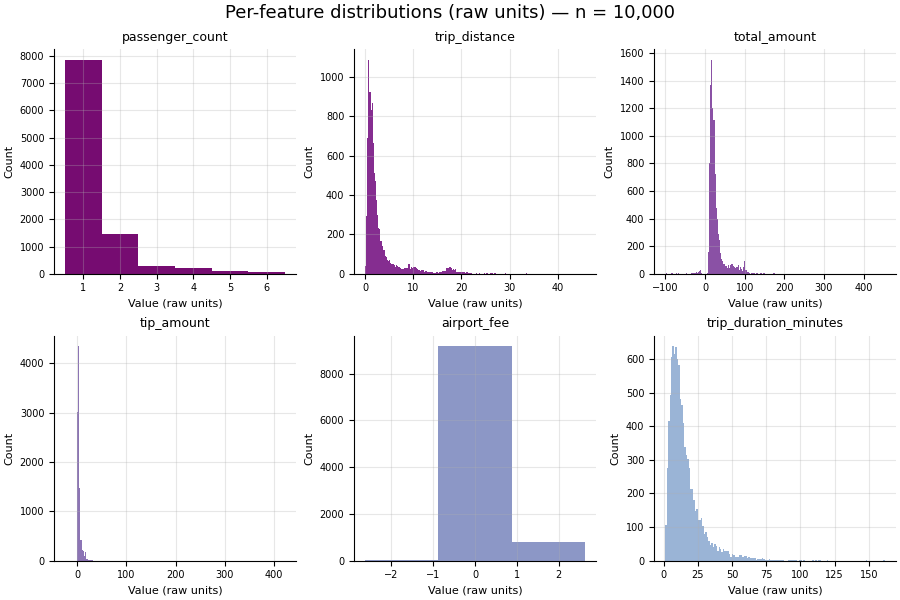
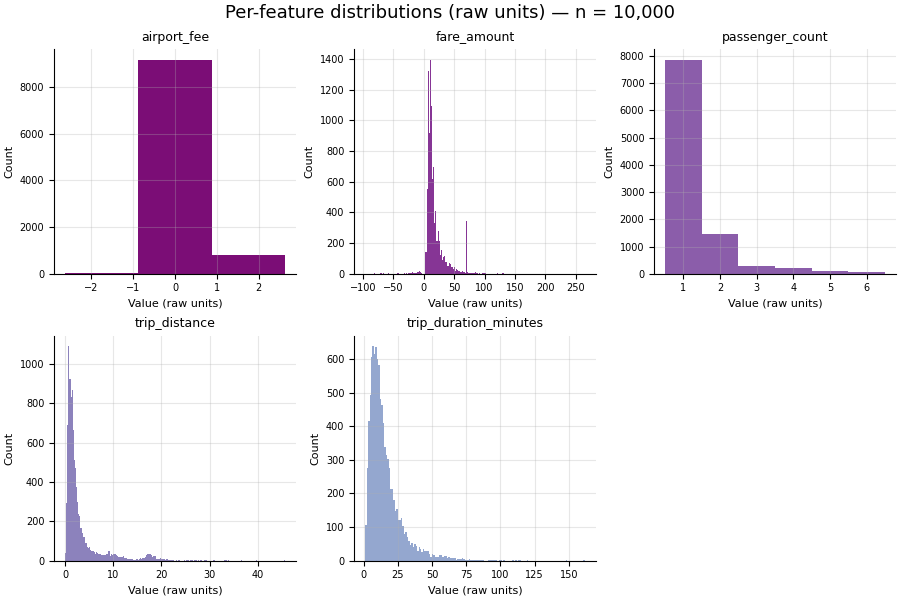
feat(taxi): replace total_amount with fare_amount, drop tip_amount

diff --git a/tests/test_process.py b/tests/test_process.py
@@ -53,8 +53,7 @@ def raw_trips() -> pd.DataFrame:
             "PULocationID": pd.Series([1, 2, 3, 4, 5], dtype="int32"),
             "DOLocationID": pd.Series([1, 2, 3, 4, 5], dtype="int32"),
             "passenger_count": [1.0, 2.0, 1.0, 3.0, 1.0],
-            "total_amount": [25.0, 20.0, 10.0, 35.0, 15.0],
-            "tip_amount": [0.0, 1.5, 0.0, 2.0, 0.0],
+            "fare_amount": [20.0, 15.0, 8.0, 30.0, 12.0],
             "Airport_fee": [0.0, 0.0, 1.25, 0.0, 0.0],
         }
     )

diff --git a/reports/audit/profile.md b/reports/audit/profile.md
@@ -2,7 +2,7 @@
 
 ## Answer
 
-The dataset has 8545833 rows and 9 columns.
+The dataset has 8545833 rows and 8 columns.
 
 ## Key evidence
 
@@ -10,14 +10,13 @@ The dataset has 8545833 rows and 9 columns.
 
 | Variable | Type | Missing | Unique | Min | Max |
 | --- | --- | --- | --- | --- | --- |
-| pickup_datetime | datetime64[ns] | 0 | 4584079 | 2024-01-01T00:00:00 | 2024-04-01T00:34:55 |
-| passenger_count | float64 | 0 | 6 | 1.0 | 6.0 |
-| trip_distance | float64 | 0 | 4658 | 0.01 | 49.99 |
-| pickup_location_id | int32 | 0 | 257 | 1 | 265 |
-| dropoff_location_id | int32 | 0 | 261 | 1 | 265 |
-| total_amount | float64 | 0 | 23975 | -1000.0 | 1021.99 |
-| tip_amount | float64 | 0 | 5132 | -300.0 | 999.99 |
 | airport_fee | float64 | 0 | 3 | -1.75 | 1.75 |
+| dropoff_location_id | int32 | 0 | 261 | 1 | 265 |
+| fare_amount | float64 | 0 | 3277 | -999.0 | 999.0 |
+| passenger_count | float64 | 0 | 6 | 1.0 | 6.0 |
+| pickup_datetime | datetime64[ns] | 0 | 4584079 | 2024-01-01T00:00:00 | 2024-04-01T00:34:55 |
+| pickup_location_id | int32 | 0 | 257 | 1 | 265 |
+| trip_distance | float64 | 0 | 4658 | 0.01 | 49.99 |
 | trip_duration_minutes | float64 | 0 | 8721 | 1.0 | 179.71666666666667 |
 
 ### Potentially important observations
@@ -31,7 +30,7 @@ Sample size: n = 10,000
 
 ![Per-feature Q-Q plots — figure 1 of 1](../figures/numeric_qq_1.png)
 
-In this figure: trip_distance, total_amount, tip_amount, trip_duration_minutes. Chunk 1 of 1; the trailing `_1` in the filename is the chunk number.
+In this figure: fare_amount, trip_distance, trip_duration_minutes. Chunk 1 of 1; the trailing `_1` in the filename is the chunk number.
 
 How to read (Q-Q): points should follow the fitted reference line; S-curves indicate tail behavior; curvature indicates skew. Shaded bands mark the middle 50% (centre) and the ±1.96σ tails; the red dashed horizontal line is the zero-mass shelf (a flat clump of dots = a spike of exact zeros).
 
@@ -45,7 +44,7 @@ Histograms are in raw units.
 
 ![Per-feature distributions — figure 1 of 1](../figures/numeric_dist_1.png)
 
-In this figure: passenger_count, trip_distance, total_amount, tip_amount, airport_fee, trip_duration_minutes. Chunk 1 of 1; the trailing `_1` in the filename is the chunk number.
+In this figure: airport_fee, fare_amount, passenger_count, trip_distance, trip_duration_minutes. Chunk 1 of 1; the trailing `_1` in the filename is the chunk number.
 
 How to read (distribution): actual spread and skew in original units; look for heavy tails, multimodality, and gaps.
 
@@ -53,43 +52,38 @@ How to read (distribution): actual spread and skew in original units; look for h
 
 | Variable | n | mean | std | skew | excess_kurtosis | zero_rate | p99/median | max/median | log_skew |
 | --- | --- | --- | --- | --- | --- | --- | --- | --- | --- |
+| airport_fee | 10000 | 0.139 | 0.486 | 2.83 | 7.3 | 0.917 | - | - | - |
+| fare_amount | 10000 | 18.1 | 17.5 | 2.41 | 14.5 | 0.000 | 5.48 | 20.7 | - |
 | passenger_count | 10000 | 1.35 | 0.832 | 3.17 | 11.2 | 0.000 | 5 | 6 | 2.05 |
 | trip_distance | 10000 | 3.31 | 4.35 | 2.82 | 9.04 | 0.000 | 11.8 | 26.8 | 0.528 |
-| total_amount | 10000 | 27 | 22.5 | 2.71 | 21.8 | 0.000 | 5.1 | 22.5 | - |
-| tip_amount | 10000 | 3.47 | 5.62 | 42.4 | 3.1e+03 | 0.218 | 6.01 | 148 | - |
-| airport_fee | 10000 | 0.139 | 0.486 | 2.83 | 7.3 | 0.917 | - | - | - |
 | trip_duration_minutes | 10000 | 15.5 | 12.6 | 2.51 | 10.6 | 0.000 | 5.31 | 13.6 | -0.0499 |
 
 ![Per-feature distribution diagnostics — figure 1 of 1](../figures/numeric_diagnostics.png)
 
-In this figure: passenger_count, trip_distance, total_amount, tip_amount, airport_fee, trip_duration_minutes. Chunk 1 of 1; the trailing `_1` in the filename is the chunk number.
+In this figure: airport_fee, fare_amount, passenger_count, trip_distance, trip_duration_minutes. Chunk 1 of 1; the trailing `_1` in the filename is the chunk number.
 
 How to read (diagnostics): colors are per-column z-scores; cell text is the raw value.
 
 ### Decision flags
 
+- airport_fee: zero_rate 0.917 exceeds 0.05
+- airport_fee: skew 2.83 exceeds 1.0
+- airport_fee: kurtosis 7.30 exceeds 3.0
+- fare_amount: skew 2.41 exceeds 1.0
+- fare_amount: kurtosis 14.54 exceeds 3.0
 - passenger_count: skew 3.17 exceeds 1.0
 - passenger_count: kurtosis 11.17 exceeds 3.0
 - trip_distance: skew 2.82 exceeds 1.0
 - trip_distance: kurtosis 9.04 exceeds 3.0
-- total_amount: skew 2.71 exceeds 1.0
-- total_amount: kurtosis 21.78 exceeds 3.0
-- tip_amount: zero_rate 0.218 exceeds 0.05
-- tip_amount: skew 42.43 exceeds 1.0
-- tip_amount: kurtosis 3103.29 exceeds 3.0
-- tip_amount: max/p99 ratio 24.6 exceeds 10.0
-- airport_fee: zero_rate 0.917 exceeds 0.05
-- airport_fee: skew 2.83 exceeds 1.0
-- airport_fee: kurtosis 7.30 exceeds 3.0
 - trip_duration_minutes: skew 2.51 exceeds 1.0
 - trip_duration_minutes: kurtosis 10.63 exceeds 3.0
 
 
 Notes:
-- pickup_location_id: declared id
 - dropoff_location_id: declared id
-- passenger_count: discrete (6 unique values) (excluded from Q-Q, kept as a bar chart in the distribution grid)
+- pickup_location_id: declared id
 - airport_fee: discrete (3 unique values) (excluded from Q-Q, kept as a bar chart in the distribution grid)
+- passenger_count: discrete (6 unique values) (excluded from Q-Q, kept as a bar chart in the distribution grid)
 - not profiled (non-numeric): pickup_datetime
 
 ## Why this may matter

diff --git a/README.md b/README.md
@@ -86,7 +86,7 @@ Every step except `discover` takes the same three flags.
 | init | `ds-pipeline init <csv> --name <n> …` | `configs/{dataset,analysis,experiment}/<n>.yaml` + `artifacts/discover/profile.json` + profile lineage sidecar | works (interactive or flag-driven) |
 | profile | `ds-pipeline profile --dataset <d>` | `artifacts/discover/profile.json` (re-profile observed facts) | works |
 | columns | `ds-pipeline columns --csv <path>` | prints `name: dtype` per source column (read-only) | works |
-| ingest | `ds-pipeline ingest --dataset <d>` | `data/processed/training_data.parquet` (~8.5M rows, 9 cols) + `ingest:<d>` lineage record | works (Polars; CI-gated; contract-driven) |
+| ingest | `ds-pipeline ingest --dataset <d>` | `data/processed/training_data.parquet` (~8.5M rows, 8 cols) + `ingest:<d>` lineage record | works (Polars; CI-gated; contract-driven) |
 | etl | `ds-pipeline etl --dataset <d> --experiment <e>` | cleaned + split parquet + `JoinAudit`/`LookupValueAudit` (`join`/`lookup_value` lineage nodes) | works |
 | contracts | `ds-pipeline contracts …` | pass/fail validation | works |
 | features | `ds-pipeline features …` | fitted feature pipeline | works |
@@ -302,7 +302,7 @@ DATA_MODE=live uv run python -m project.scripts.12_lgbm_baseline
 ## 4. Tests
 
 ```bash
-uv run pytest              # 293 tests: library (synthetic) + data layer (real .head(1000)/cache)
+uv run pytest              # 466 tests: library (synthetic) + data layer (real .head(1000)/cache)
 ```
 
 ---

diff --git a/dataflow.md b/dataflow.md
@@ -406,7 +406,7 @@ Analysis intent is authored separately via `configs/analysis/<name>.yaml` → `A
 | Engineered features | Pandera | `project/features.py` (`FEATURE_SPECS`) → `broadway/features/schema.py::build_engineered_schema` |
 | Python interfaces | type hints | throughout |
 
-- The raw schema is generated at runtime from `DatasetContract.columns` — one `pa.Column` per contract entry (the raw 9 columns, not join-derived `pickup_borough`/`LocationID`). Dtypes are checked strictly (`coerce=False`); `null_count` is observed, not an invariant, so nullability is left at Pandera's default.
+- The raw schema is generated at runtime from `DatasetContract.columns` — one `pa.Column` per contract entry (the raw 8 columns, not join-derived `pickup_borough`/`LocationID`). Dtypes are checked strictly (`coerce=False`); `null_count` is observed, not an invariant, so nullability is left at Pandera's default.
 - Role-based column selection is `broadway/contracts/selectors.py` (`feature_columns`, `datetime_columns`, `target_columns`) — pure functions over the contract, no hardcoded names.
 - Engineered features are defined ONCE in `project/features.py::FEATURE_SPECS`; `ENGINEERED_FEATURES`, `ENGINEERED_FEATURE_TYPES`, and `ENGINEERED_SCHEMA` are all derived from that registry (no parallel hand-maintained list).
 - Enforcement points: `read_training_data()` validates the raw frame via `build_raw_schema`; `FeaturePipeline.transform()` validates against `ENGINEERED_SCHEMA`.

diff --git a/readmore/00_ingestion.md b/readmore/00_ingestion.md
@@ -52,15 +52,14 @@ are dropped, missing ones raise), dtypes must match exactly (`build_raw_schema`
 → `validate`), and any column missing a dtype or carrying an unsupported dtype
 raises.
 
-Expected columns come from `configs/dataset/taxi.yaml` (9 columns):
+Expected columns come from `configs/dataset/taxi.yaml` (8 columns):
 
 - `pickup_datetime`
 - `passenger_count`
 - `trip_distance`
 - `pickup_location_id`
 - `dropoff_location_id`
-- `total_amount`
-- `tip_amount`
+- `fare_amount`
 - `airport_fee`
 - `trip_duration_minutes` (target)
 
@@ -119,7 +118,7 @@ uv run pytest -q
 
 ## Key column facts (what "correct" means)
 
-- **Contract source of truth:** `configs/dataset/taxi.yaml` — 9 columns, each
+- **Contract source of truth:** `configs/dataset/taxi.yaml` — 8 columns, each
   with `dtype`, `null_count`, and `role`.
 - **Raw-boundary check** (`contracts`) verifies **presence + nulls only**;
   dtype is intentionally deferred (`contracts/checks.py`).
